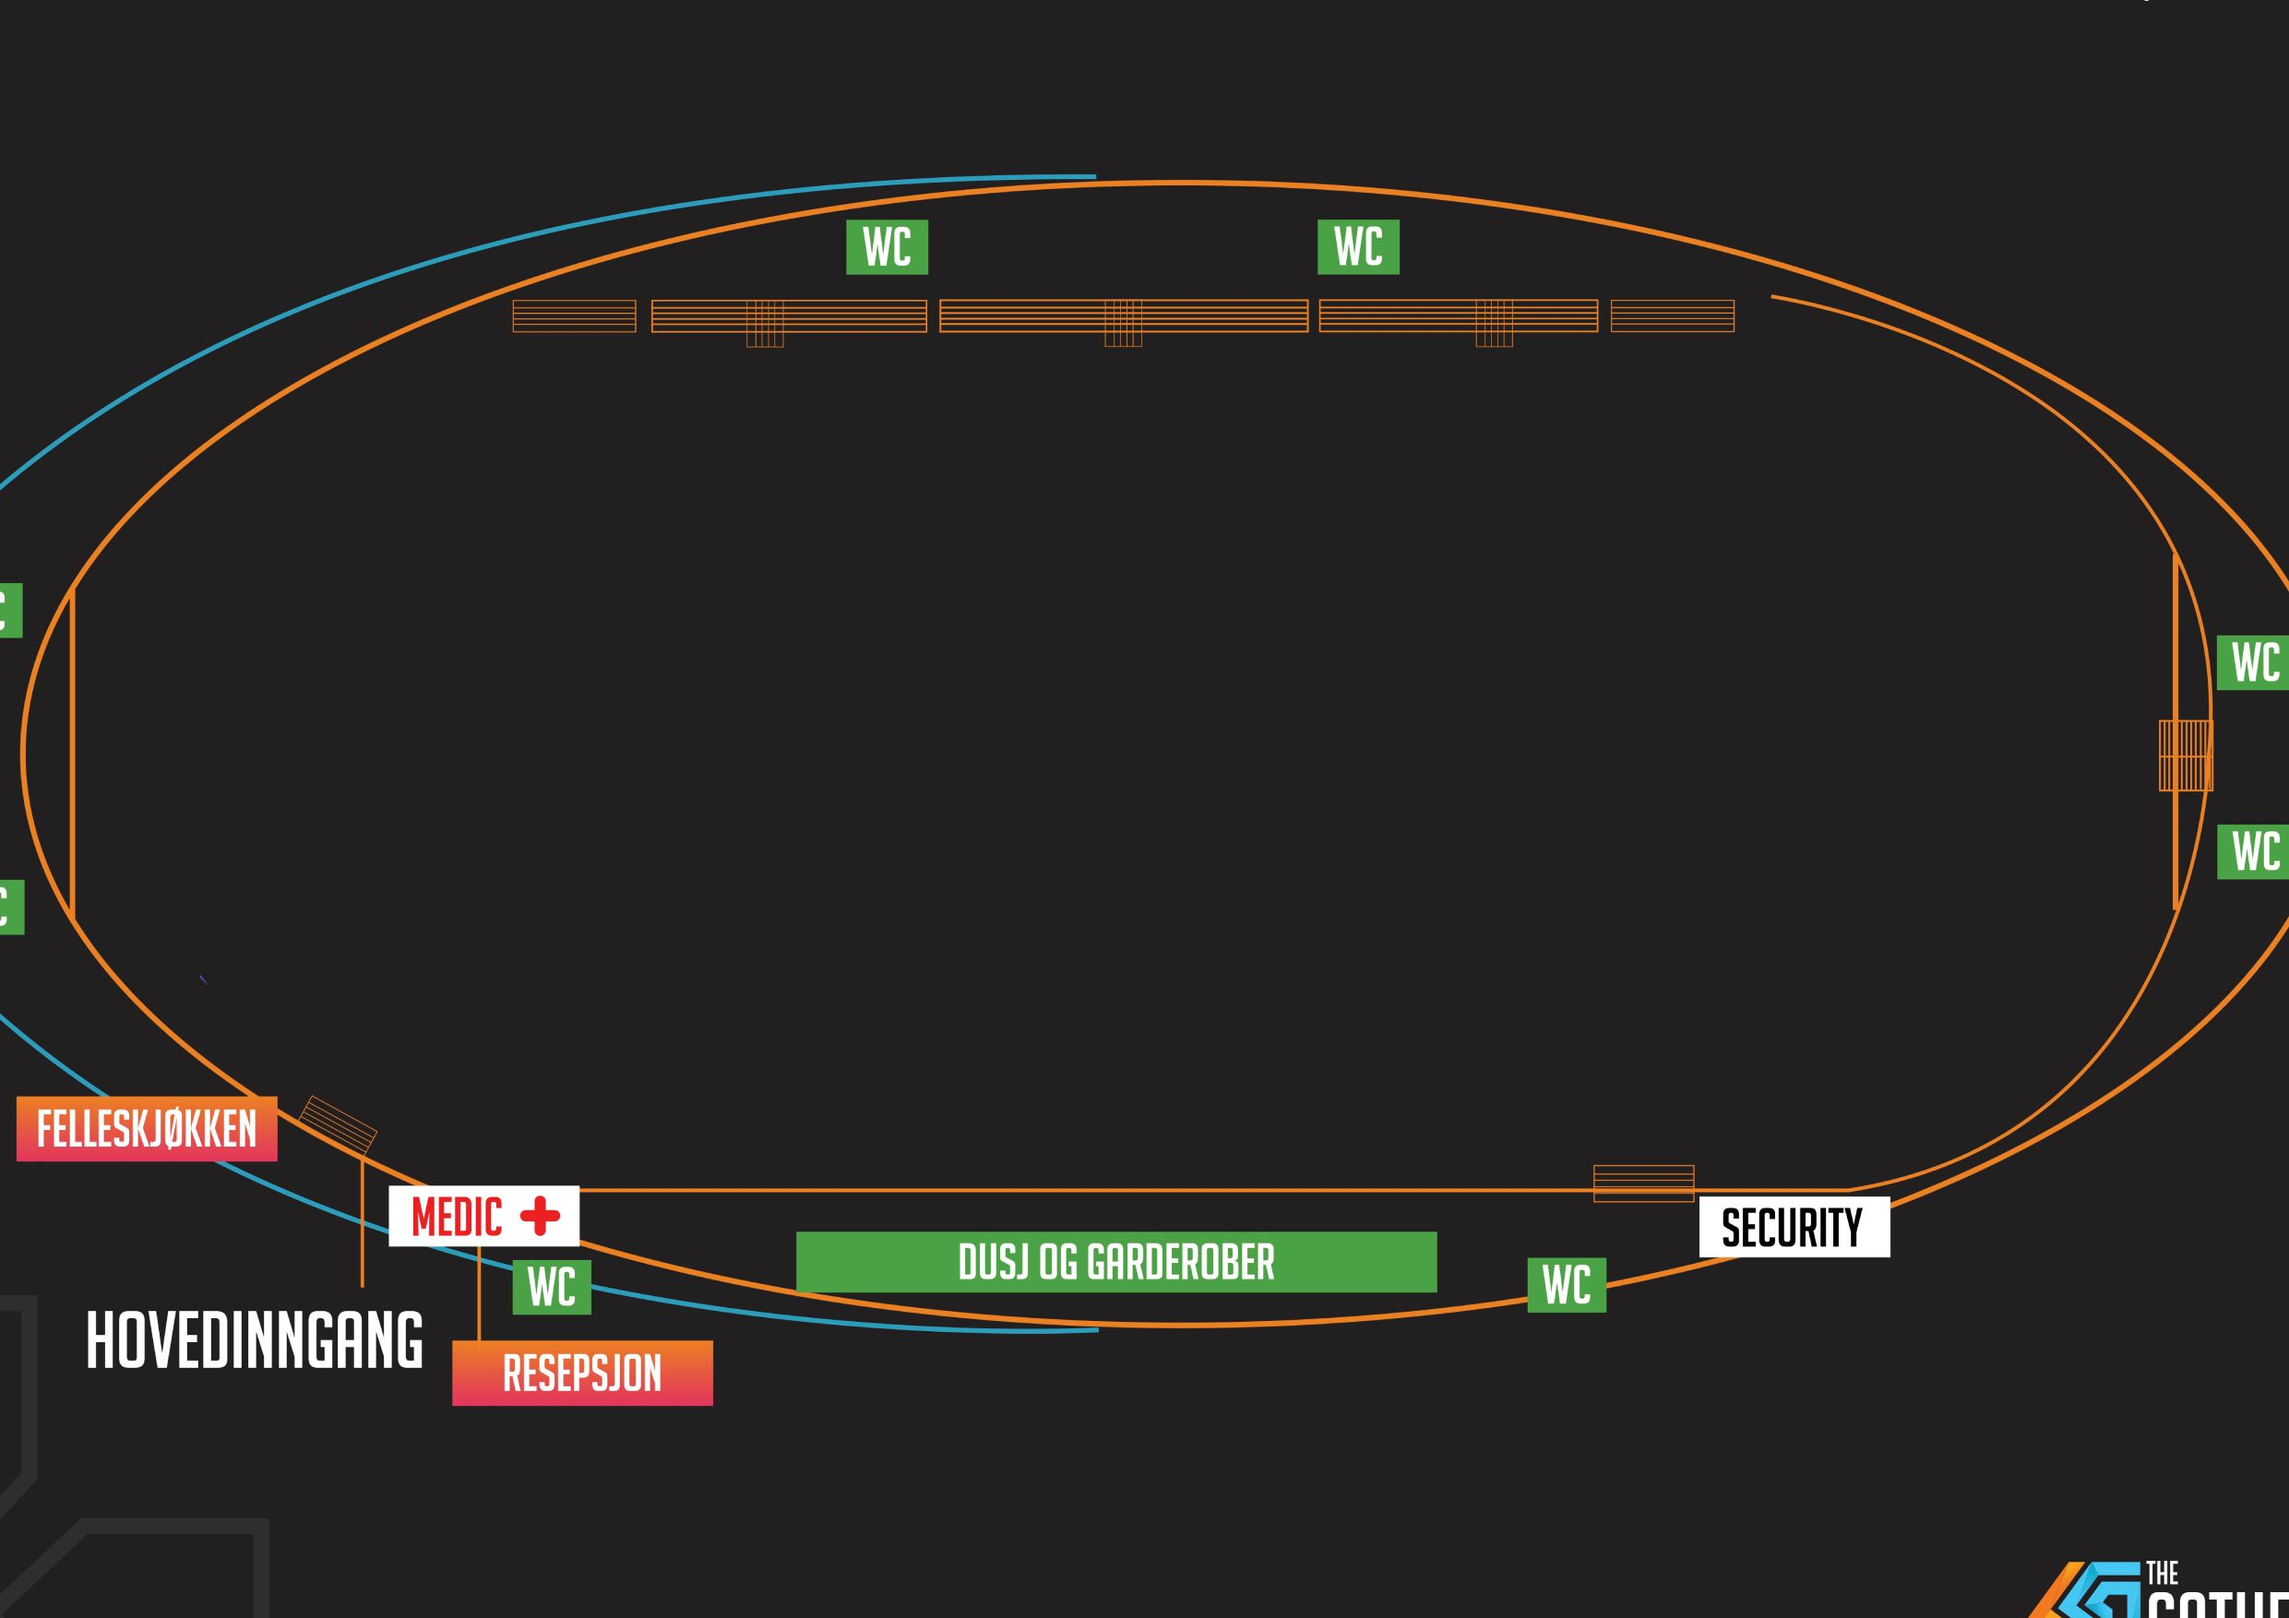
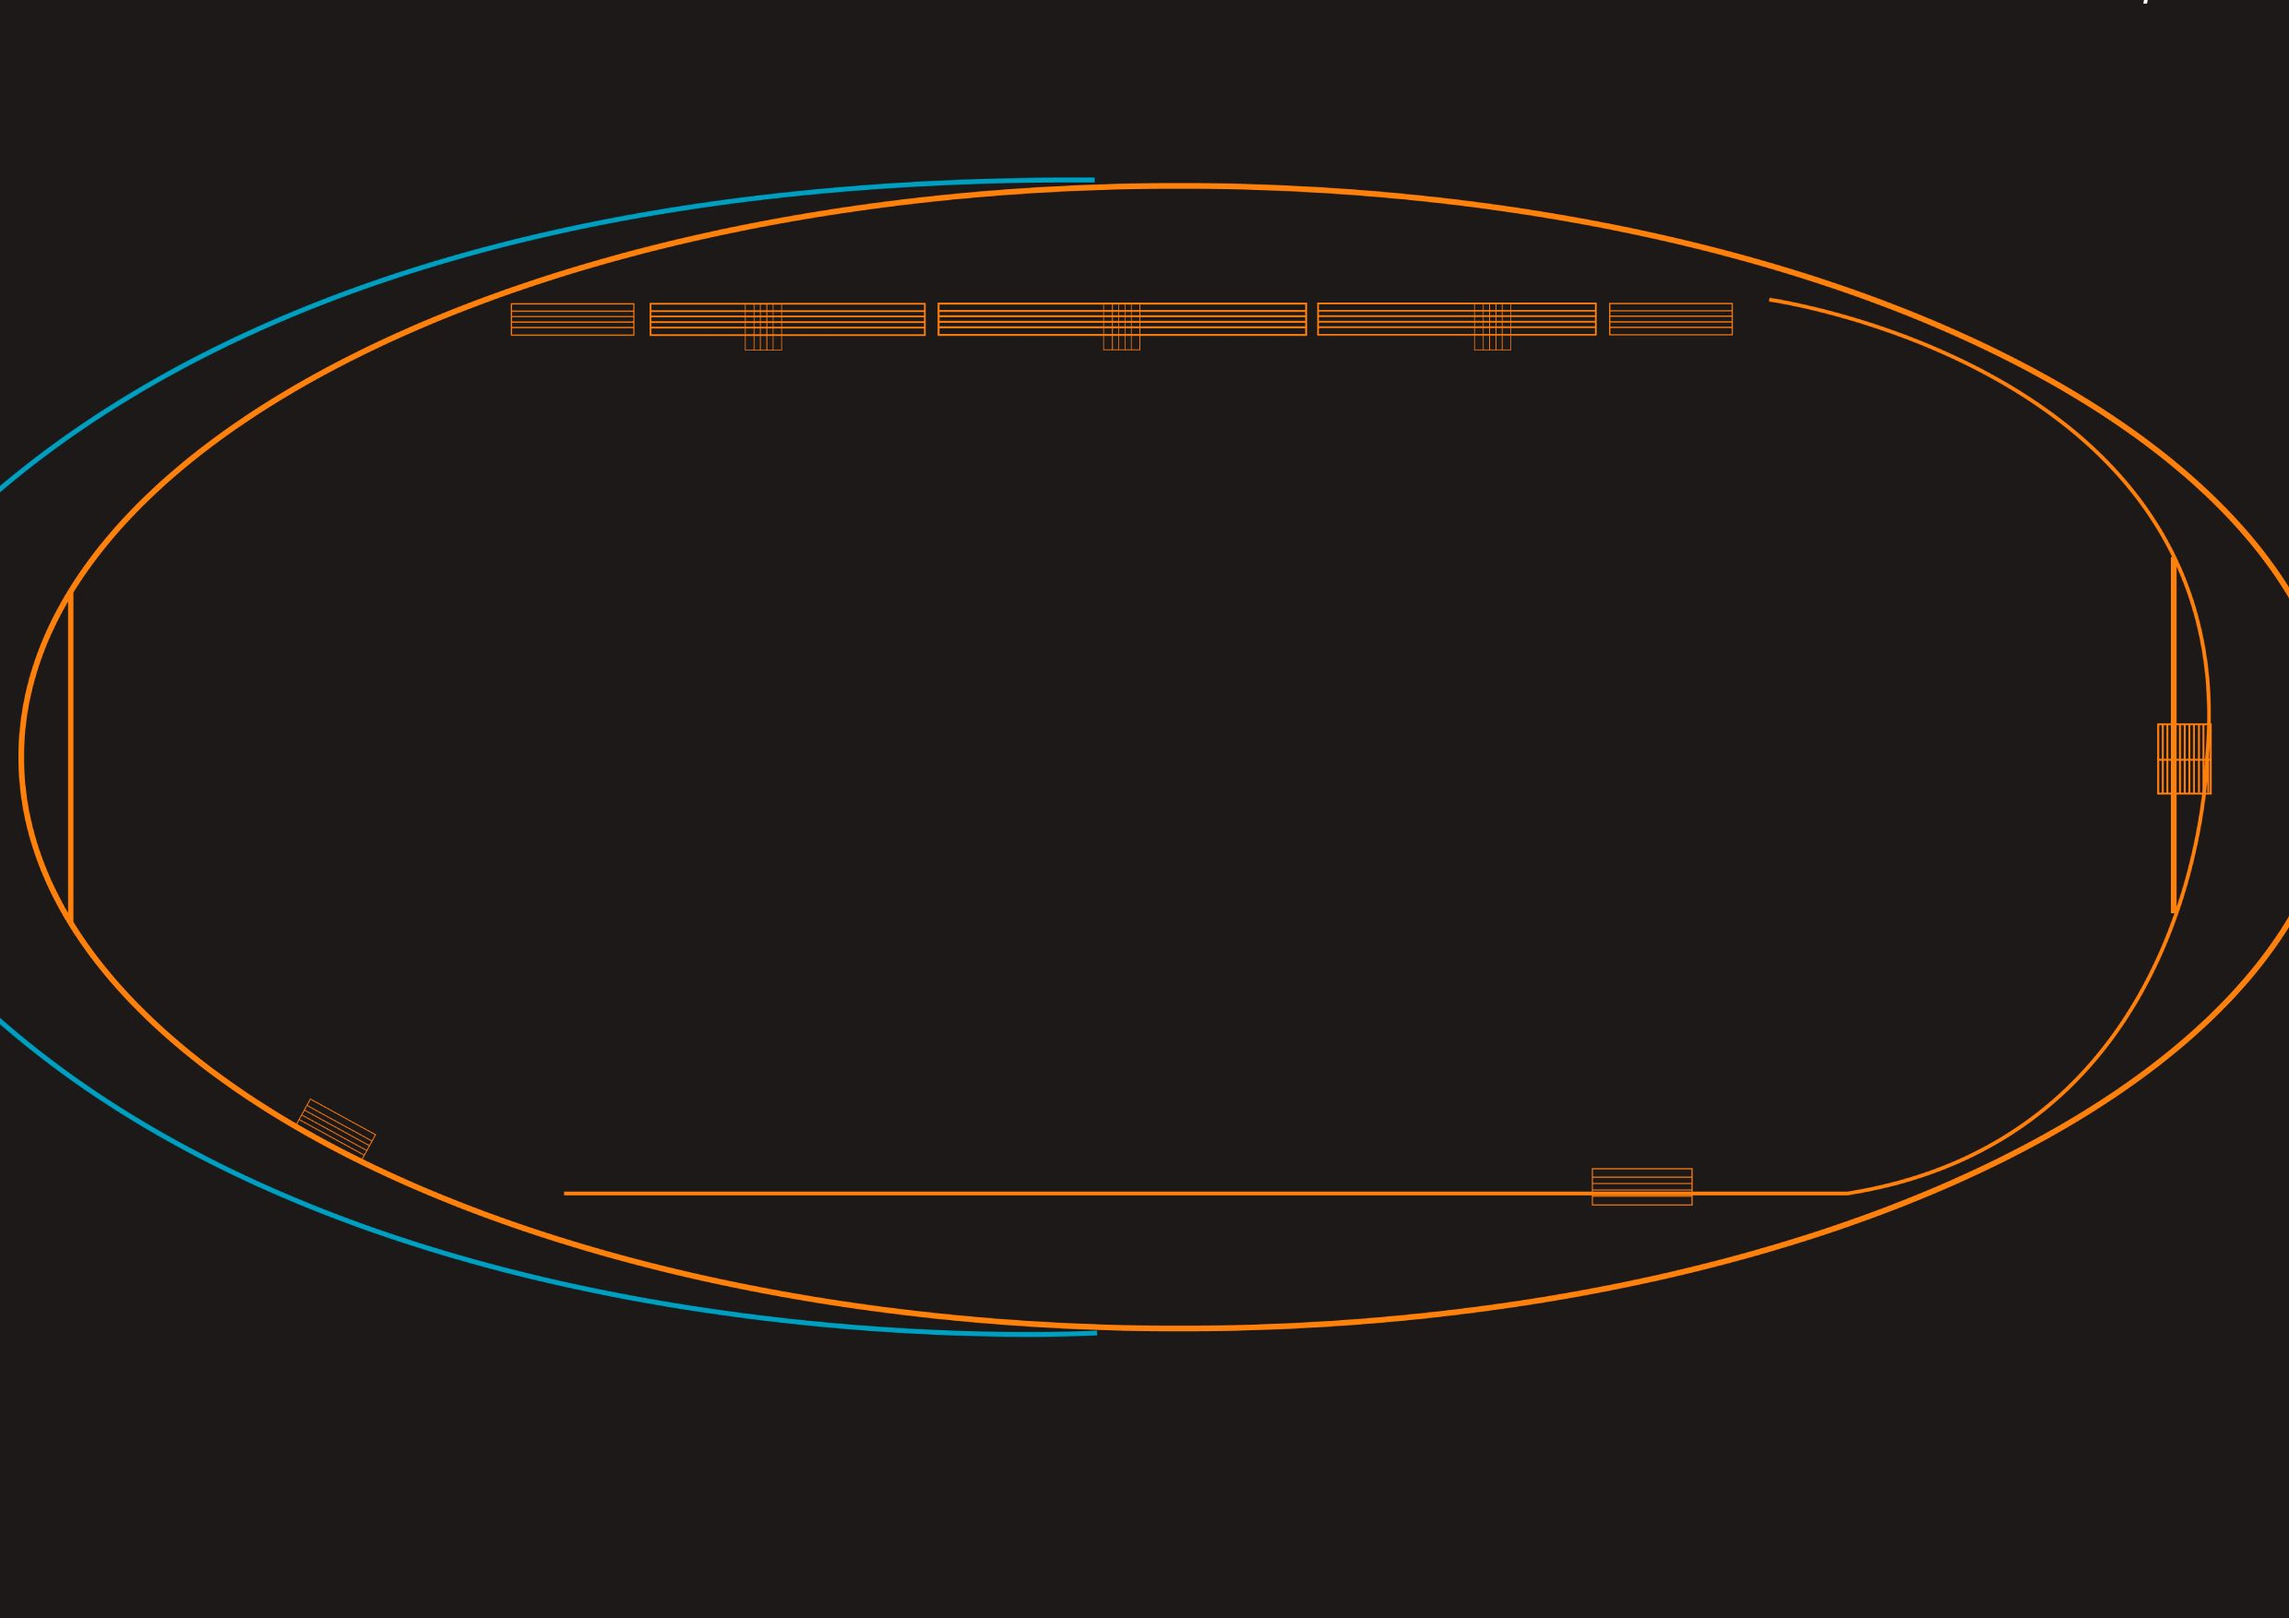
feat(map): add enough functionality for v1

diff --git a/src/types/map.ts b/src/types/map.ts
@@ -15,11 +15,39 @@ export interface PartialMapItem {
   height: number;
   polygon?: Cords[];
   presentation?: {
+    /**
+     * Control if item should show up in overall map navigation
+     */
     showInNavigation?: boolean;
+    /**
+     * Control if item should show detail popup when focused
+     */
+    showPopup?: boolean;
+    /**
+     * Control if icon should be shown in normal map view
+     */
     mapIcon?: boolean;
-    type: "stage" | "stand" | "food" | "attraction" | "placeholder" | "unknown";
+    type:
+      | "stage"
+      | "stand"
+      | "food"
+      | "attraction"
+      | "hygiene"
+      | "placeholder"
+      | "unknown";
     interactive?: boolean;
+    /**
+     * List of calendar tags to filter by to show relevant events
+     */
     calendarQuery?: string[];
     padding?: number;
+    /**
+     * "Always" show label on map irregardless of zoom level
+     */
+    stickyLabel?: boolean;
+    /**
+     * Override automatic label width calculation to visually center, if needed
+     */
+    labelWidth?: number;
   };
 }
